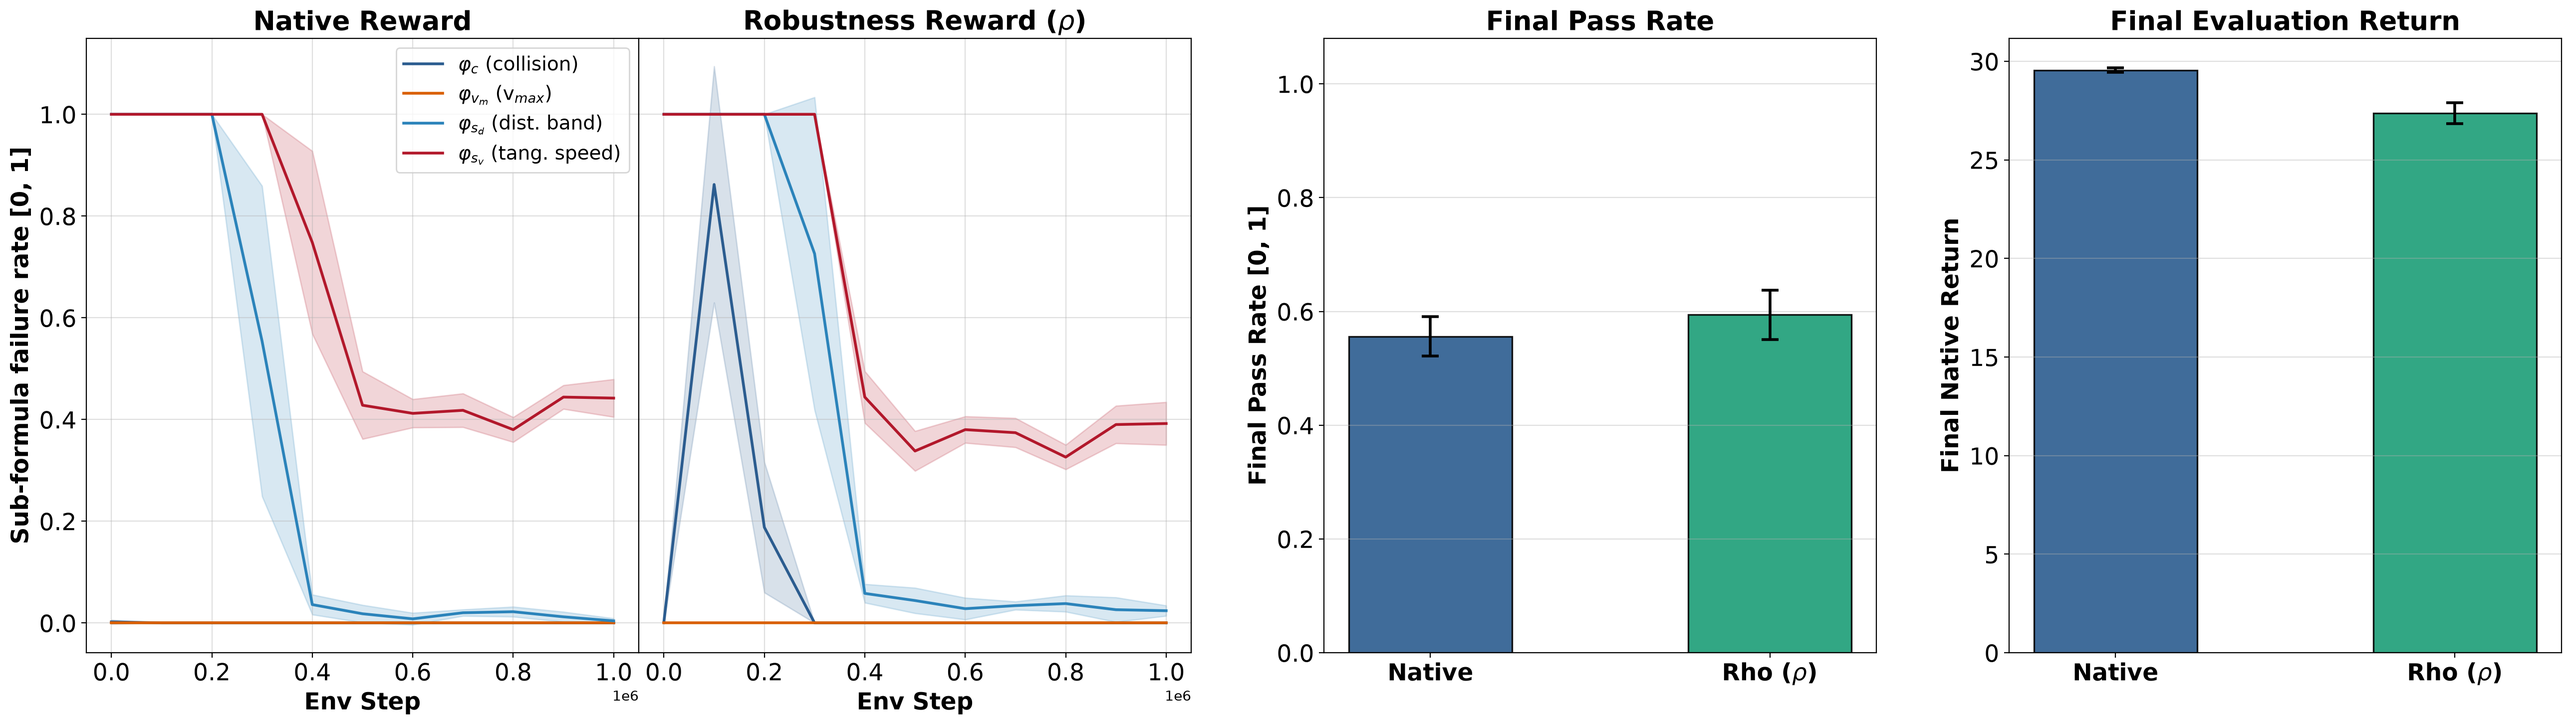
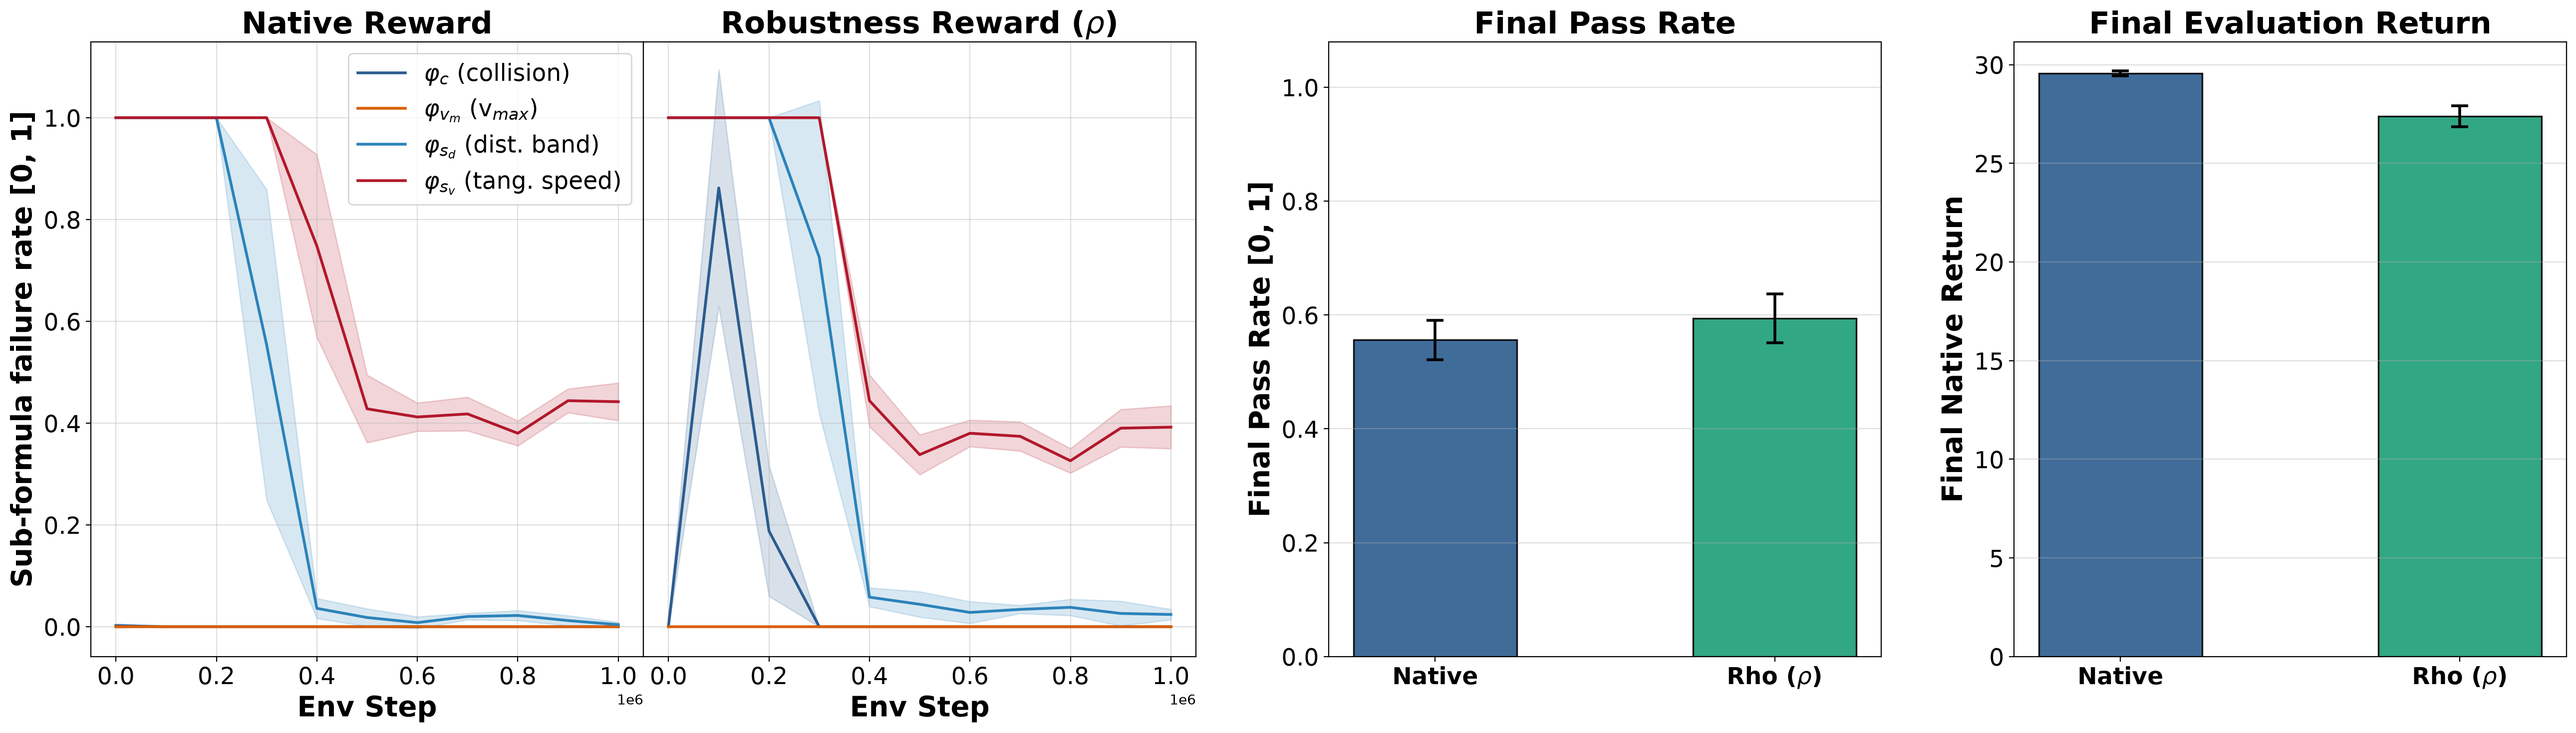
some updated plotting

diff --git a/plotting/plots.py b/plotting/plots.py
@@ -95,7 +95,7 @@ def aggregate_reward_mode(results: str, run_id: str, reward_mode: str) -> dict:
 
 def plot_flocking(results: str, run_id: str, save_path: str):
     fig = plt.figure(figsize=(32, 8))
-    label_size = 17
+    label_size = 20
     marker_size = 17
     plt.rcParams["axes.titleweight"] = "bold"
     plt.rcParams["axes.labelweight"] = "bold"
